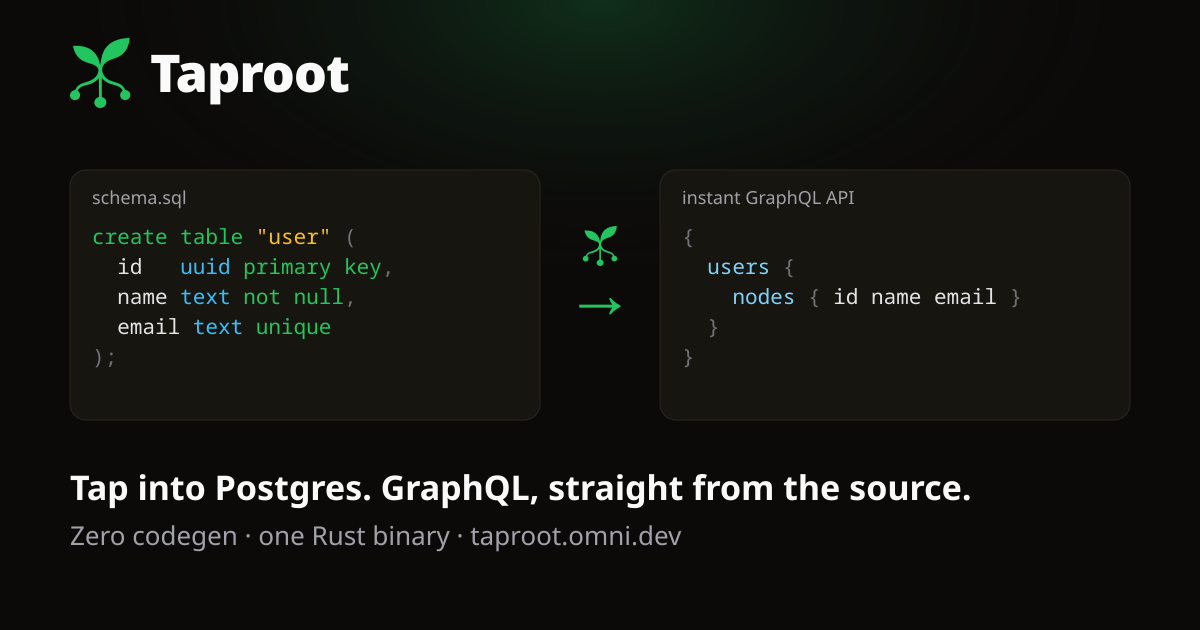
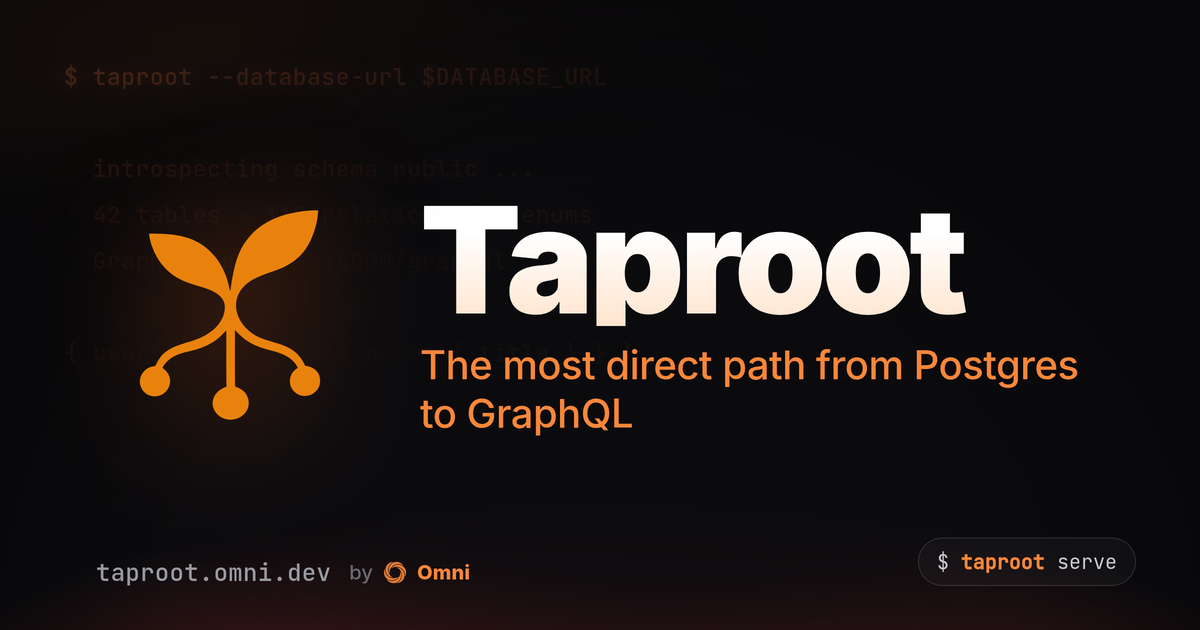
fix(brand): make Taproot consistently orange and de-kiln the OG card
The catalog brand token, site CSS primary, and OG were already orange
(#e8820c), but the favicon, mark, and PWA theme color still shipped the
old green (#15803d). Recolor those to orange. The OG card was a kiln
clone (flame mark, Dockerfile snippet, "fired into containers" tagline,
"taproot build" pill); replace the mark with Taproot's root mark, the
snippet with a Postgres-to-GraphQL example, and regenerate og.png.

diff --git a/scripts/og/og.html b/scripts/og/og.html
@@ -6,7 +6,7 @@
       --window-size=1200,630 --virtual-time-budget=8000 \
       --screenshot=og-2x.png "file://$PWD/og.html"
     magick og-2x.png -resize 1200x630 -strip ../../public/og.png
-  mark.svg is the Taproot flame mark; the Omni credit mark is inlined below.
+  mark.svg is the Taproot root mark; the Omni credit mark is inlined below.
   Fonts: Inter + JetBrains Mono (Google Fonts).
 -->
 <html>
@@ -87,15 +87,13 @@
 <body>
   <div class="card">
     <div class="ember"></div>
-    <div class="code">FROM rust:1.85 AS build
-WORKDIR /app
-COPY . .
-RUN cargo build --release
+    <div class="code">$ taproot --database-url $DATABASE_URL
 
-FROM gcr.io/distroless/cc-debian12
-COPY --from=build /app/target/release/app /app
-EXPOSE 8080
-CMD ["/app"]</div>
+  introspecting schema public ...
+  42 tables · 118 relations · 9 enums
+  GraphQL ready → :4000/graphql
+
+{ user(id: 7) { name posts { title } } }</div>
     <div class="scrim"></div>
     <div class="grain"></div>
 
@@ -103,7 +101,7 @@ CMD ["/app"]</div>
       <img class="mark" src="mark.svg" alt="Taproot" />
       <div class="text">
         <div class="word">Taproot</div>
-        <div class="tag">Source code, fired into containers</div>
+        <div class="tag">The most direct path from Postgres to GraphQL</div>
       </div>
     </div>
 
@@ -121,7 +119,7 @@ CMD ["/app"]</div>
         <b>Omni</b>
       </div>
     </div>
-    <div class="pill">$ <b>taproot</b> build</div>
+    <div class="pill">$ <b>taproot</b> serve</div>
   </div>
 </body>
 </html>

diff --git a/src/lib/config/app.config.ts b/src/lib/config/app.config.ts
@@ -27,7 +27,7 @@ const app = {
   },
   /** PWA configuration. Values should match public/manifest.json. */
   pwa: {
-    themeColor: "#15803d",
+    themeColor: "#e8820c",
     backgroundColor: "#0c0a09",
   },
 };
